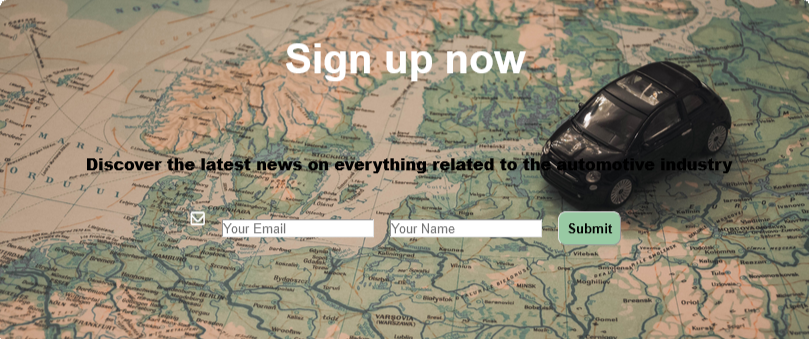
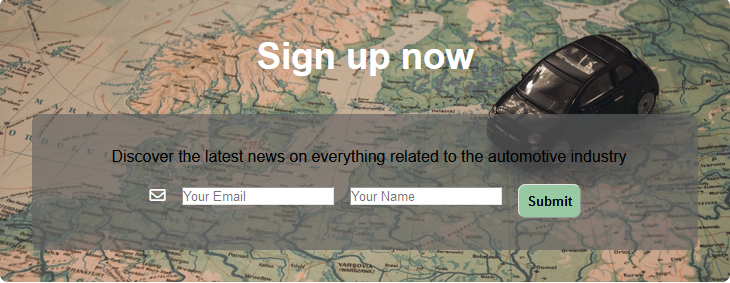
deployment section added

diff --git a/style.css b/style.css
@@ -518,6 +518,7 @@ p {
     position: relative;
     top: 2rem;
     padding-top: 1rem;
+    border-radius: 8px;
 }
 
 #mobile {

diff --git a/README.md b/README.md
@@ -6,10 +6,9 @@ This website is intended to target new vehicle owners who may not have much expe
 
 [View live website here](https://jadey1223.github.io/The-fundamental-manual-for-maintaining-and-repairing-cars/).
 
-features
--
+## features
 
-* Naviagtion bar
+* ### Naviagtion bar
  
     - Featured on all three pages, the full responsive navigation bar includes links to the Home page, Tax, Insurance and Sign Up page and is identical in each page to allow for easy navigation.
 
@@ -17,7 +16,7 @@ features
     
 ![A image of my header section](assets/images/header-screenshot.png)
 
-* The landing page image
+* ### The landing page image
     
     - The landing page features a background image with text overlay to show the user that tools are engaged in the context of providing auto maintenance assistance.
 
@@ -25,36 +24,26 @@ features
 
     ![A image of my header introduction](assets/images/landing-page.PNG)
 
-* Repair guide section
+* ### Repair guide section
     
     -  This section offers a general overview on 
     repairs and maintence on a vehicle.
     -  In this section, the user will be given a step-by-step guide with supporting images and videos to help build their confidence in maintaining their vehicle accordingly.
 
-    <!-- ![A image of my 1st repair section](assets/images/Repair-car.png) -->
-    
-* Buying a secondhand car section
-
-    - This section offers a set of questions that one should be asking themself before purchasing a vehicle.
-    - In this section these specific question would advise you if the vehicle is worth purchasing or not.
-    - This section also acts as a bonus feature to the website.
-<!-- 
-    ![A image of my buy a second hand guide](assets/images/Buying-secondhand.png) -->
-
-* Sign up section
+* ### Sign up section
 
     - In this section, I provide a newsletter to any reader who is interested in hearing about the newest developments in the automobile sector.
 
-    ![A image of my sign up section](assets/images/Sign-up-section.png)
+    ![A image of my sign up section](assets/images/sign-up-section.png)
 
-* Contact Section
+* ### Contact Section
     
     - In this section we offer once a month seminar at a specific time and day. We also have intergrated a map so that visitors may find us and our address with ease.
     - We also have Alternative ways of communication via a telephone number or a email address.
 
     ![A image of a contact section](assets/images/contact-info.png)
 
-*  Footer
+* ### Footer
 
     - The footer section contains connections to the appropriate social networking sites for mild repairs. The links will open in a new tab for the user's convenience.
     - The user benefits from the footer as it encourages them to stay in touch via social media.
@@ -63,7 +52,35 @@ features
 
 * features left to implement
 
-    - 
+    - No features left to implement.
+
+# Technologies Used
+
+### Main Languages Used
+- HTML5
+- CSS3
+
+### Frameworks, Libraries & Programs Used
+
+* [Google Fonts](https://fonts.google.com/)
+
+    - Google fonts was used to import the fonts "Roboto Condense" and Sans-serif into the style.css file. These fonts were used throughout the project.
+
+* [Font Awesome](https://fontawesome.com/)
+
+    - Font Awesome was used on almost all pages throughout the website to import icons (e.g. social media icons) for UX purposes.
+
+* [GitHub](https://github.com/github)
+
+    - GitHub was used to store the project after pushing
+
+* [Balsamiq](https://balsamiq.com/)
+
+    - Balsamiq was used to create the wireframes during the design phase of the project.
+
+*   [Am I Responsive?](https://ui.dev/amiresponsive)
+
+    - Am I Responsive was used in order to see responsive design throughout the process and to generate mockup imagery to be used.
 
  ## Testing
  
@@ -78,10 +95,15 @@ features
 
     - Mobile viewports have a hamburger menu that provides the navigation link to my other pages. This is utilized to take up less surface area on smaller devices.
 
+    - Youtube Embed - By providing a hands-on demonstration, these YouTube videos assist viewers in acquiring a useful skill.
+
+    - Contact Form - A contact form is used in the Contact Page, to provide a point of contact for the user.
+
     - For larger devices, the contact section breakpoint divides the map and contact information into two sections that are positioned next to each other to maximize screen real estate.
 
     - Viewport for smaller devices at the sign-up area Reduce the amount of space by moving the email and name sections underneath one another.
-
+    
+  
     - All external links open in a new tab.
 
     - I can confirm that the forms on my pages are linked to [code institute Form dump](https://formdump.codeinstitute.net).
@@ -104,6 +126,20 @@ features
 
 - There is no unfixed bugs in my website.
 
+# Deployment
+
+ -This project was developed using GitPod, which was then committed and pushed to GitHub using the GitPod terminal.
+
+## Deploying on GitHub Pages
+To deploy this page to GitHub Pages from its GitHub repository, the following steps were taken:
+
+1. Locate the GitHub Repository.
+2. At the top of the repository, select Settings from the menu items.
+3. Scroll down the Settings page to the "Pages" section.
+4. Under "Source" click the drop-down menu labelled "None" and select "Main".
+5. Upon selection, the page will automatically refresh meaning that the website is now deployed.
+6. Scroll back down to the "Pages" section to retrieve the deployed link.
+
 ## Credit
 
 * ### Content
@@ -123,8 +159,6 @@ features
 
     - Icons was taken from [flaticon](https://www.rac.co.uk/insurance/car-insurance/guides/what-is-car-insurance).
 
-    - [W3C school](https://www.w3schools.com/) was used consecutively.
-
     - Newsletter section
 [Newsletter](https://www.youtube.com/watch?v=hjMKP9Kqkh8)
 
@@ -142,6 +176,13 @@ features
         - jump start image was used from [honkforhelp](https://www.honkforhelp.com/explore/2016/printable-jumpstart-guide/)
         - Oil level image was used from [autodeal](https://www.autodeal.com.ph/articles/car-features/how-check-your-cars-oil-level)
 
+* ### Code 
+
+    To gain a deeper understanding of coding i have used theses resources. 
+
+* [W3Schools](https://www.w3schools.com/)
+* [Stack overflow](https://stackoverflow.com/)
+* Youtube tutorials
 
 
 
